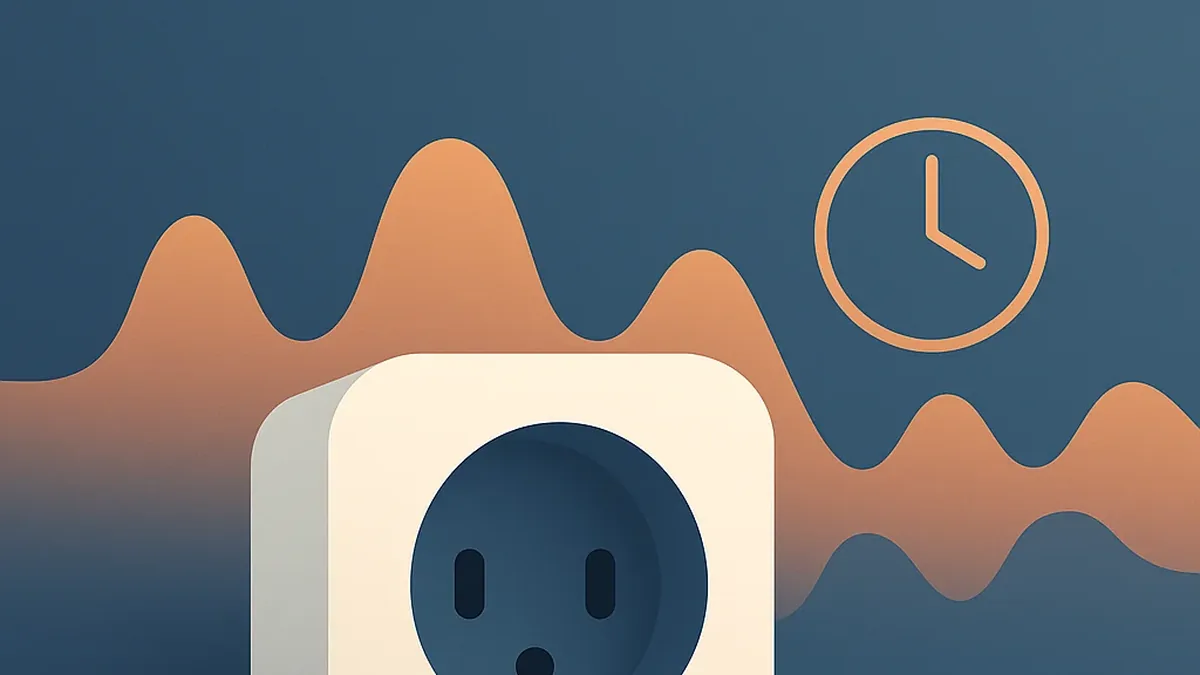
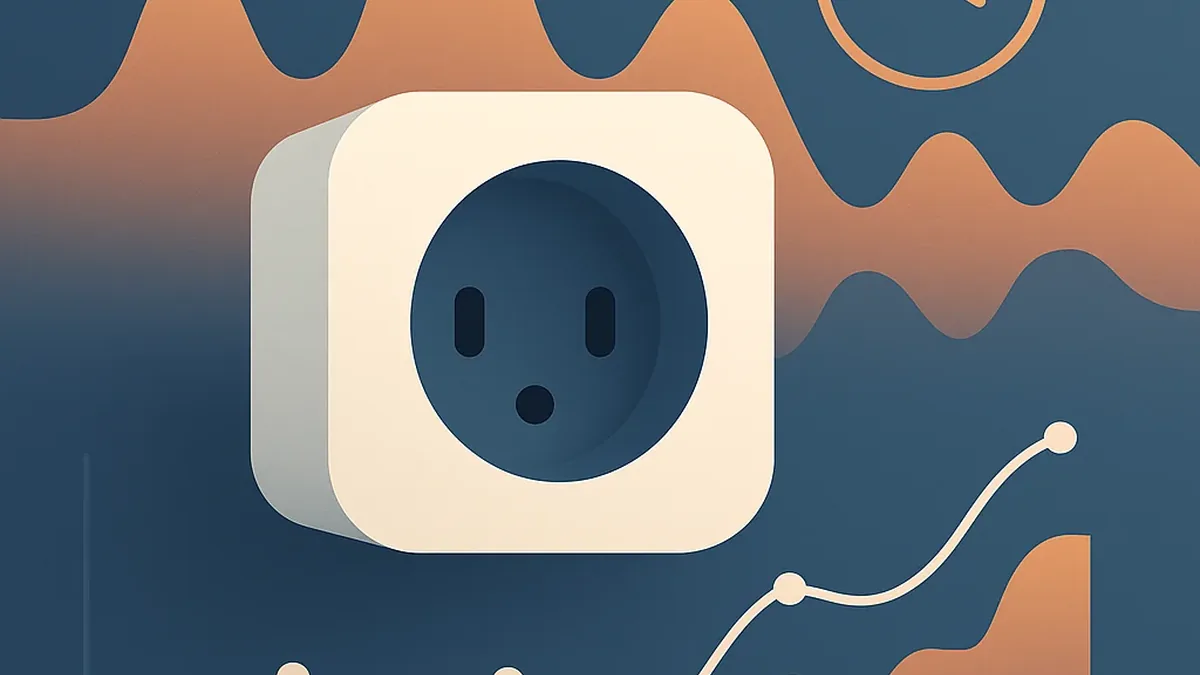
fix: correct cover crops and TC Blau-Weiss automation story
Re-derive the mytapo, narraitive, and tcbw-getraenkebuchung covers from
their original square posts/ sources using the crop CLI's new --anchor
center flag, instead of the default top anchor that cut off the plug,
the glass/iPad, and the book. Add --anchor to the crop subparser (default
stays "top") and a CLI-level test proving it's wired through to
crop_to_cover.

Recapture the tcbw-social-tools cover so the entire generated
match-result graphic (including its footer row with the crest and the
nuLiga badge) fits inside the frame, by shrinking the app's auto-fit
preview via viewport width and vertically centering the graphic before
a center-anchor crop.

Correct the TC Blau-Weiss story on /fuer-vereine/ and the tcbw-website
project page: the old WordPress site was simply unused, confusing, and
insecure -- not something board members needed to self-edit. Ongoing
work is now confirming automatically raised pull requests: nuLiga
results are pulled in automatically, and incoming board emails trigger
a background agent that splits them into Termine/Infos/Sonstiges and
works them into the site.

diff --git a/scripts/test_shot_to_cover.py b/scripts/test_shot_to_cover.py
@@ -2,8 +2,9 @@
 
 from pathlib import Path
 
+import shot_to_cover
 from PIL import Image
-from shot_to_cover import compose_phone_cover, crop_to_cover, to_gallery_shot
+from shot_to_cover import compose_phone_cover, crop_to_cover, main, to_gallery_shot
 
 
 def _make(path: Path, size: tuple[int, int], color: tuple[int, int, int]) -> Path:
@@ -58,6 +59,29 @@ def test_crop_to_cover_center_anchor_keeps_middle_of_square(tmp_path: Path) -> N
     target = tmp_path / "cover.webp"
 
     crop_to_cover(src, target, anchor="center")
+
+    with Image.open(target) as out:
+        assert out.size == (1200, 675)
+        r, g, b = out.getpixel((600, 337))
+        assert r > 150 and g < 100 and b < 100
+
+
+def test_cli_crop_honours_anchor_flag(tmp_path: Path, monkeypatch) -> None:
+    # Same square/red-band fixture as the center-anchor unit test above, but
+    # driven through the CLI's argv parsing to prove --anchor is wired up.
+    src = tmp_path / "square.png"
+    img = Image.new("RGB", (1024, 1024), (255, 255, 255))
+    band_top = (1024 - 300) // 2
+    for y in range(band_top, band_top + 300):
+        for x in range(1024):
+            img.putpixel((x, y), (255, 0, 0))
+    img.save(src, format="PNG")
+    target = tmp_path / "cover.webp"
+
+    monkeypatch.setattr(
+        shot_to_cover.sys, "argv", ["shot_to_cover.py", "crop", str(src), str(target), "--anchor", "center"]
+    )
+    assert main() == 0
 
     with Image.open(target) as out:
         assert out.size == (1200, 675)

diff --git a/scripts/shot_to_cover.py b/scripts/shot_to_cover.py
@@ -125,6 +125,13 @@ def main() -> int:
     p_crop = sub.add_parser("crop", help="landscape capture -> 16:9 cover")
     p_crop.add_argument("src", type=Path)
     p_crop.add_argument("target", type=Path)
+    p_crop.add_argument(
+        "--anchor",
+        choices=("top", "center"),
+        default="top",
+        help="crop anchor: 'top' (default) for full-page screenshots, "
+        "'center' for square sources with a centred subject",
+    )
 
     p_phones = sub.add_parser("phones", help="portrait frames -> 16:9 cover")
     p_phones.add_argument("target", type=Path)
@@ -139,7 +146,7 @@ def main() -> int:
     args = parser.parse_args()
 
     if args.mode == "crop":
-        crop_to_cover(args.src, args.target)
+        crop_to_cover(args.src, args.target, anchor=args.anchor)
     elif args.mode == "phones":
         compose_phone_cover(
             args.sources, args.target, background=_hex_to_rgb(args.background)

diff --git a/content/projekte/tcbw-website/index.md b/content/projekte/tcbw-website/index.md
@@ -18,11 +18,11 @@ cover.alt = "Startseite des TC Blau-Weiß Attendorn"
 
 ## Problem
 
-Die alte Vereinsseite lief auf WordPress: langsam, ständig Plugin-Updates, unklarer
-Sicherheitsstatus. Im Vorstand wollte niemand PHP-Versionen und Datenbank-Backups
-betreuen, und gleichzeitig mussten nicht-technische Vorstandsmitglieder Aktuelles,
-Mannschaften und Termine selbst pflegen können. Dazu die Anforderung, dass das Hosting
-nichts kostet und nichts kaputtgeht, wenn ein halbes Jahr niemand hinschaut.
+Die alte Vereinsseite lief auf WordPress, aber genutzt hat sie kaum noch jemand:
+unübersichtlich gewachsen, mit veralteten Inhalten, und sicherheitstechnisch war das
+schon lange nicht mehr zu verantworten. Im Vorstand wollte sich niemand um PHP-Versionen
+und Plugin-Updates kümmern. Dazu die Anforderung, dass das Hosting nichts kostet und
+nichts kaputtgeht, wenn ein halbes Jahr niemand hinschaut.
 
 ## Lösung
 
@@ -34,6 +34,9 @@ das bei jedem Push neu baut.
 
 ## Ergebnis
 
-Läuft unter tc-bw-attendorn.de. Das Hosting kostet nichts, die Seite lädt sofort, und
-zwei Leute im Vorstand pflegen die Inhalte ohne Rückfrage. Die Mannschaftsdaten aus dem
-Repo werden inzwischen auch von den Social-Tools weiterverwendet.
+Läuft unter tc-bw-attendorn.de, das Hosting kostet nichts. Der laufende Betrieb besteht
+vor allem daraus, automatisch erzeugte Pull Requests zu bestätigen: Spielergebnisse
+zieht die Seite selbstständig von nuLiga, und eine eingehende Vorstandsmail löst einen
+Agenten aus, der sie in Termine, Infos und Sonstiges zerlegt und als Änderungsvorschlag
+einarbeitet. Die Mannschaftsdaten aus dem Repo verwenden inzwischen auch die
+Social-Tools weiter.

diff --git a/content/fuer-vereine.md b/content/fuer-vereine.md
@@ -49,10 +49,14 @@ Verein direkt an den Anbieter. Und wer sich um den laufenden Betrieb kümmert, k
 am Anfang gemeinsam; ich helfe dabei, es so zu bauen, dass man dafür kein Informatiker
 sein muss.
 
-Ich baue nichts, aus dem man nicht wieder rauskommt. Beim TC Blau-Weiß habe ich eine
-WordPress-Seite abgelöst, die langsam war, ständig Updates wollte und die im Vorstand
-niemand mehr anfassen mochte. Seitdem steht da eine Seite, die nichts kostet, nichts
-kaputtgeht und die zwei Leute im Vorstand selbst pflegen.
+Ich baue nichts, aus dem man nicht wieder rauskommt. Beim TC Blau-Weiß stand vorher eine
+WordPress-Seite, die schlicht niemand mehr benutzt hat — unübersichtlich und
+sicherheitstechnisch nicht mehr zu verantworten. Heute kümmere ich mich zwar weiterhin
+darum, aber der laufende Betrieb besteht im Wesentlichen daraus, Pull Requests zu
+bestätigen, die von selbst entstehen: Spielergebnisse zieht die Seite automatisch von
+nuLiga, und wenn eine Vorstandsmail eintrifft, zerlegt ein Agent sie im Hintergrund in
+Termine, Infos und alles Übrige und arbeitet sie ein. Genau darum geht es beim dritten
+Jahr — die Arbeit macht die Maschine, ein Mensch schaut nur noch drüber.
 
 ## Was schon läuft
 
